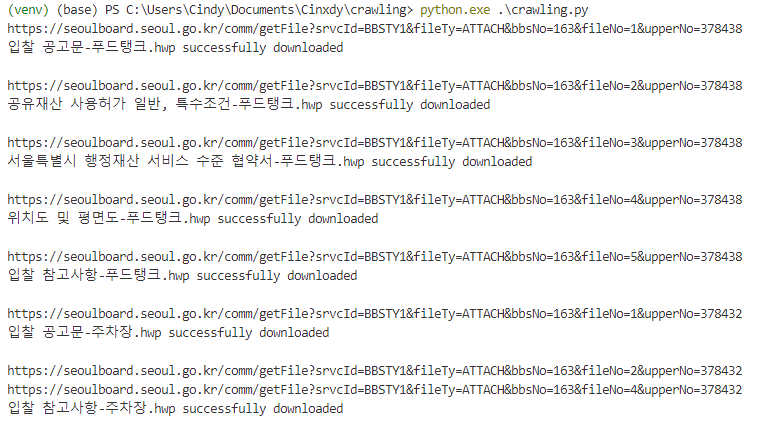
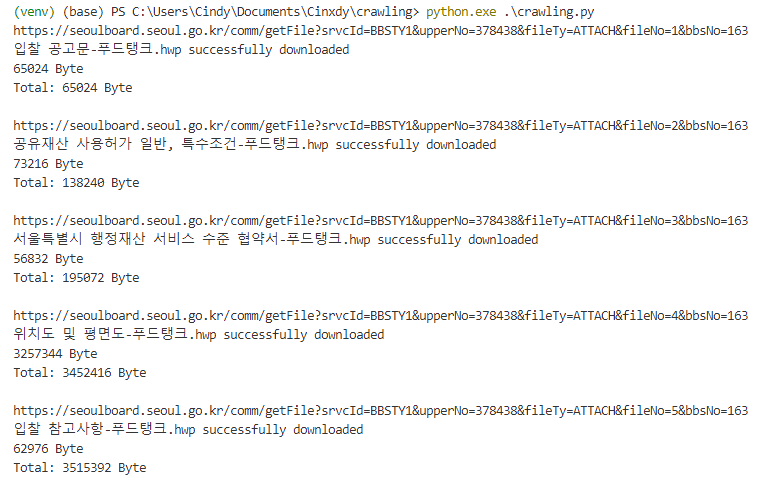
Add totalFileByte and convert every link string to function

Changed region(s): [[0.0, 0.0, 1.0, 0.3867], [0.0, 0.4165, 1.0, 0.7735], [0.0, 0.833, 1.0, 0.9817]]

diff --git a/crawling.py b/crawling.py
@@ -4,41 +4,49 @@ from urllib.error import HTTPError
 import requests
 import json
 
-url_list = "https://seoulboard.seoul.go.kr/front/bbs.json?bbsNo=163&schTy=&schData=&curPage="
-url_page = "https://seoulboard.seoul.go.kr/humanframe/Json/view/163_"
-# https://seoulboard.seoul.go.kr/comm/getFile?srvcId=BBSTY1&upperNo=378438&fileTy=ATTACH&fileNo=1&bbsNo=163
+
+
+def url_list(bbsNo, curPage): return "https://seoulboard.seoul.go.kr/front/bbs.json?bbsNo="+str(bbsNo)+"&schTy=&schData=&curPage="+str(curPage)
+def url_page(bbsNo, nttNo) : return "https://seoulboard.seoul.go.kr/humanframe/Json/view/"+str(bbsNo)+"_"+str(nttNo)+".json"
+def url_file(bbsNo, upperNo, fileNo): return "https://seoulboard.seoul.go.kr/comm/getFile?srvcId=BBSTY1&upperNo="+str(upperNo)+"&fileTy=ATTACH&fileNo="+str(fileNo)+"&bbsNo="+str(bbsNo)
 
 def get_download(url, fname, directory):
     if not os.path.isdir(directory):
         os.mkdir(directory)
 
+    print(url)
     try:
         request.urlretrieve(url, directory+ fname)
-        print(fname+' successfully downloaded\n')
+        print(fname+' successfully downloaded')
     except HTTPError as e:
         print('Error')
-        return
+        return False
+    return True
 
 def main():
     pageoffset = 1
     num = 500
-    while num>0 :
-        r = requests.get(url_list+str(pageoffset))
+
+    bbsNo = 163
+    fileTotalSize = 0
+    while fileTotalSize < 4 * 1024**12 :
+        r = requests.get(url_list(bbsNo,pageoffset))
         rj = json.loads(r.text)
 
         for item in rj['listVO']['listObject']:
             # print(item['nttNo'])
-            r2 = requests.get(url_page+str(item['nttNo'])+".json")
+            r2 = requests.get(url_page(bbsNo, item['nttNo']))
             # print(r2.text)
             if r2.ok:
                 r2j = json.loads(r2.text)
-                for index, fileitem in enumerate(r2j['bbsTypeVO']['bbsFileList']):
-                    if fileitem['orginlFileNm'][-4:]==".hwp":
-                        url2 = "https://seoulboard.seoul.go.kr/comm/getFile?srvcId=BBSTY1&fileTy=ATTACH&bbsNo=163&fileNo="+str(index+1)+"&upperNo="+str(item['nttNo'])
-                        print(url2)
-                        get_download(url2, fileitem['orginlFileNm'], "./download/")
+                for index, fileItem in enumerate(r2j['bbsTypeVO']['bbsFileList']):
+                    if fileItem['orginlFileNm'][-4:]==".hwp":
+                        fileURL=url_file(bbsNo, fileItem['upperNo'], index+1)
+                        if(get_download(fileURL, fileItem['orginlFileNm'], "./download/")):
+                            fileTotalSize += fileItem['fileSize']
+                            print(fileItem['fileSize'],"Byte\nTotal:",fileTotalSize,"Byte\n")
             
         pageoffset += 1
         num -= 10
 
-main()
+main() 
